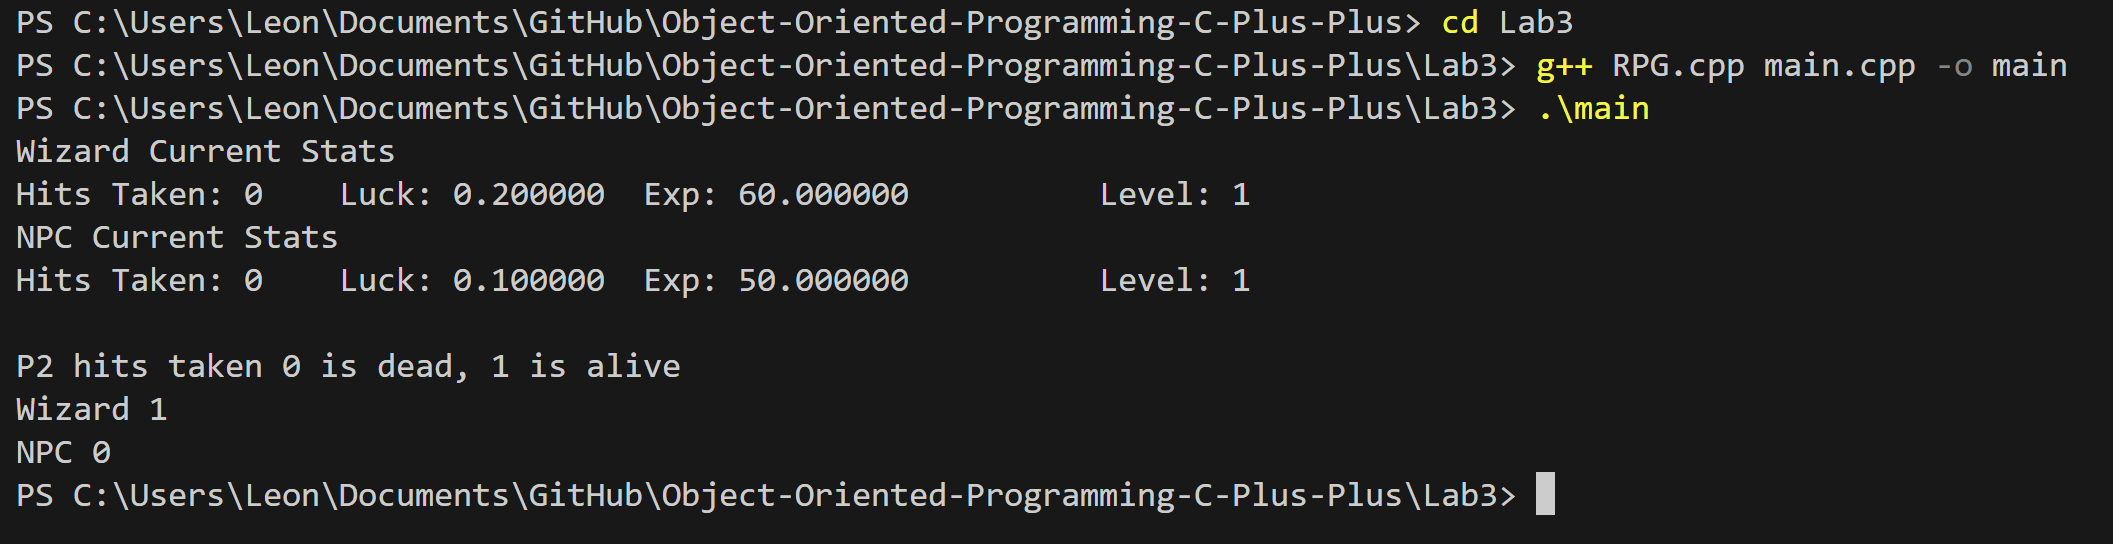
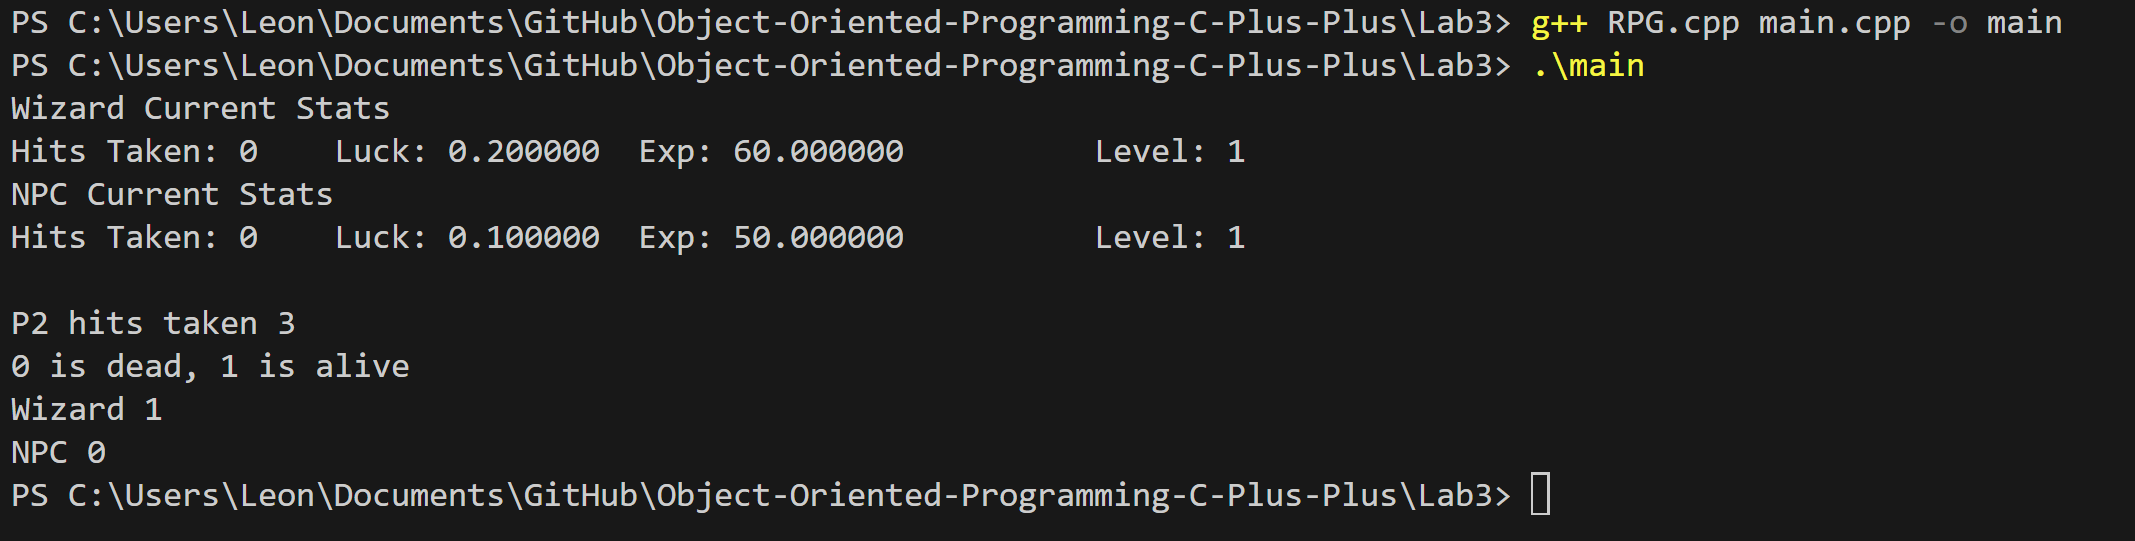
fixed output png

diff --git a/Lab3/main.cpp b/Lab3/main.cpp
@@ -19,7 +19,7 @@ int main(){
     int new_hits = 3;
     p2.setHitsTaken(new_hits);
 
-    cout << "\nP2 hits taken ";
+    cout << "\nP2 hits taken " << p2.gethitsTaken() << endl;
     //PRINT out the hits_taken
 
     cout << "0 is dead, 1 is alive\n";
